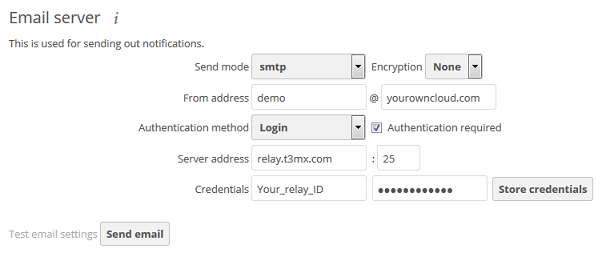
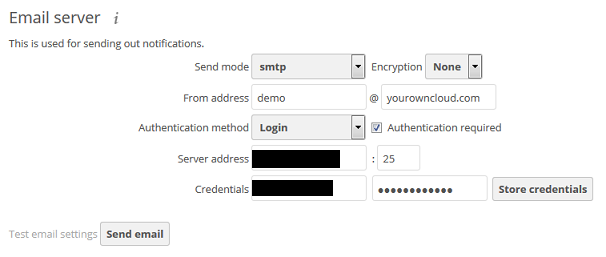
Removed SMTP relay references
Removed SMTP relay references

Changed region(s): [[0.4158, 0.6848, 0.5644, 0.7782], [0.4158, 0.5603, 0.5644, 0.6537]]

diff --git a/Servers/using-owncloud-with-rdbs.md b/Servers/using-owncloud-with-rdbs.md
@@ -14,7 +14,7 @@
 - [Connect to the server via OpenVPN](#connect-to-the-server-via-openvpn)
 - [Steps to deploy ownCloud to an existing server](#steps-to-deploy-owncloud-to-an-existing-server)
 - [Configure ownCloud connection to CenturyLink MySQL Relational DB](#configure-owncloud-connection-to-centurylink-mysql-relational-db-service)
-- [Configure ownCloud to utilize SMTP Relay](#configure-owncloud-to-utilize-smtp-relay)
+- [Configure ownCloud to utilize a SMTP service](#configure-owncloud-to-utilize-smtp-service)
 - [Configure ownCloud to utilize Object Storage](#configure-owncloud-to-utilize-object-storage)
 
 ### Technology Profile
@@ -162,9 +162,10 @@ Create a Linux server in CenturyLink Cloud using the following knowledge article
 		  ```
 
 
-### Configure ownCloud to utilize SMTP Relay
+### Configure ownCloud to utilize SMTP Services
 
-- Configure SMTP Relay [SMTP Relay](../Mail/smtp-relay-services-simple.md)
+Alerts and notications cane be sent out using SMTP, if you have subscribe to a SMTP provider, it can be configured using steps below:
+
 - From the owncloud main page, select ***Admin*** from the user account
 
 ![drop down menu](../images/owncloud/oc-drop-down.png)
@@ -173,7 +174,7 @@ Create a Linux server in CenturyLink Cloud using the following knowledge article
 
 ![Mail Server](../images/owncloud/mail-server.png)
 
-- Configure the SMTP Relay user based on SMTP Relay information from the portal
+- Configure the SMTP  user based on SMTP information from your provider
 
 ![mail server config](../images/owncloud/oc-mail-relay-account.png)
 
